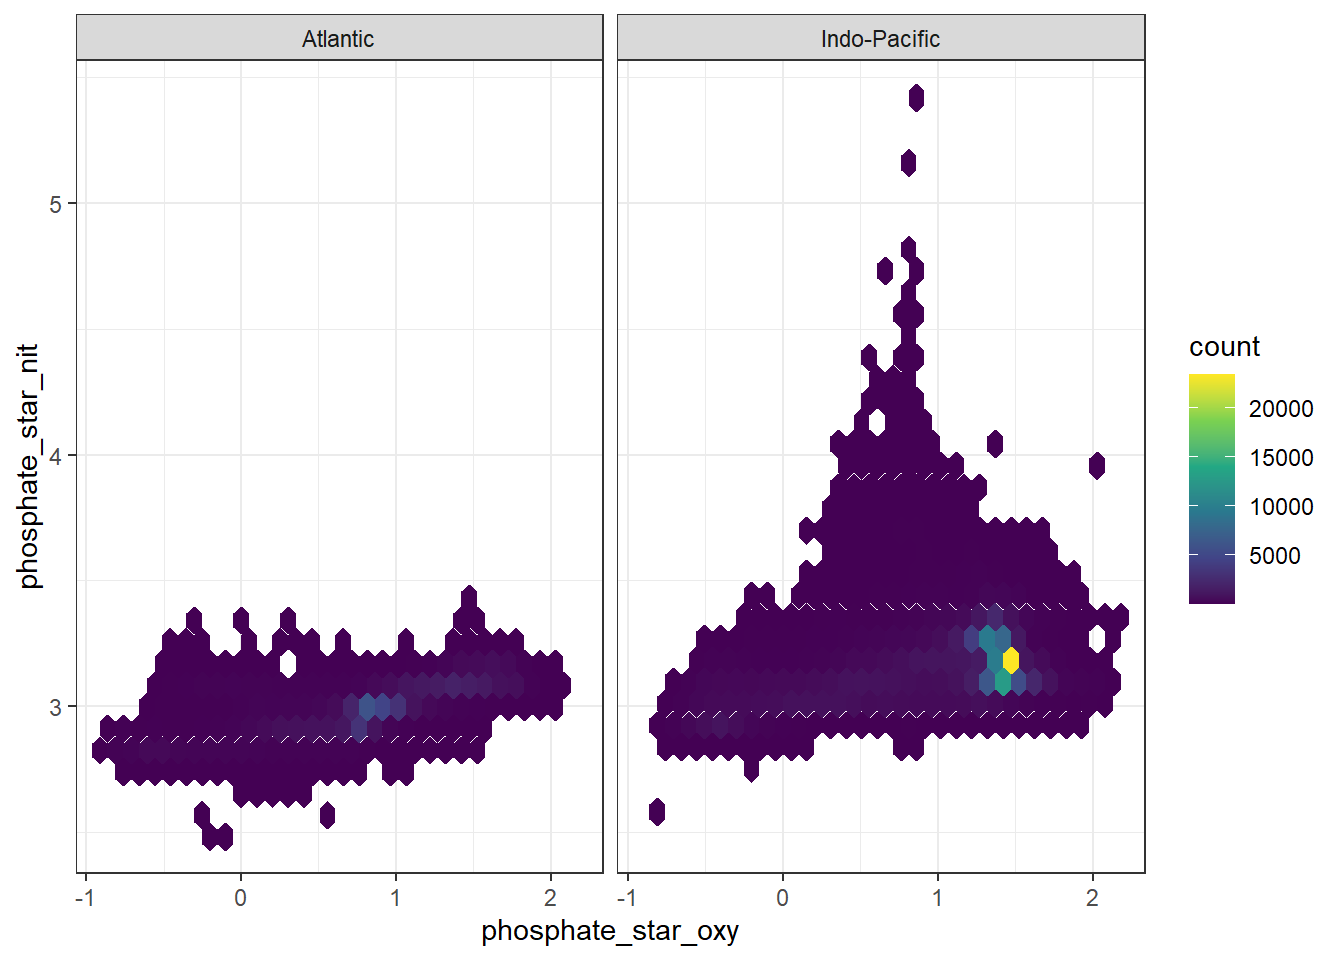
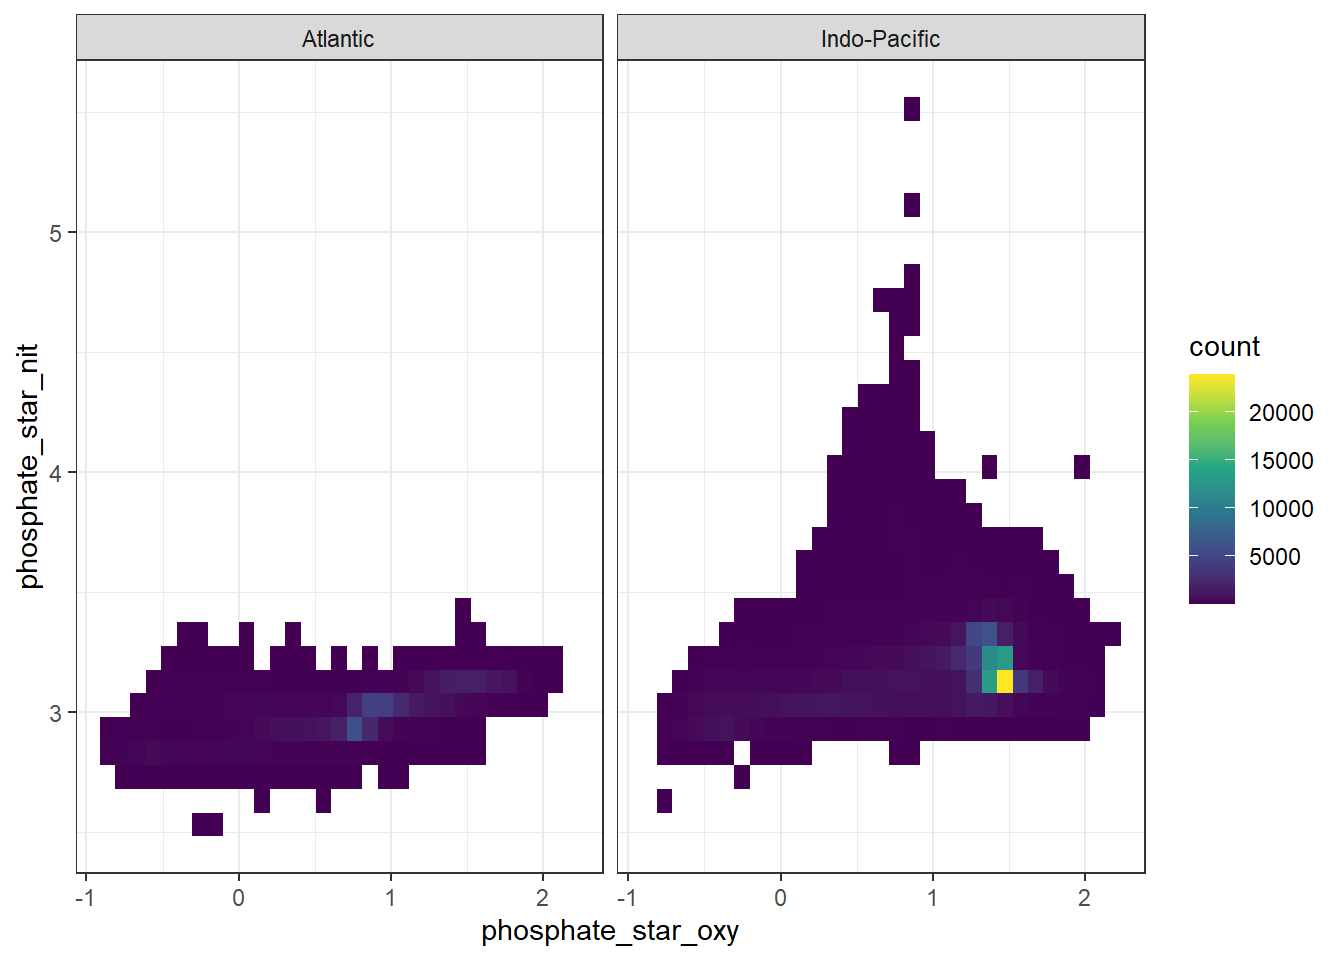
Build site.

diff --git a/docs/eMLR.html b/docs/eMLR.html
@@ -574,16 +574,16 @@ This reproducible <a href="http://rmarkdown.rstudio.com">R Markdown</a> analysis
 <div class="panel panel-default">
 <div class="panel-heading">
 <p class="panel-title">
-<a data-toggle="collapse" data-parent="#workflowr-checks" href="#strongRepositoryversionstrongahrefhttpsgithubcomjensdanielmuellerCanteMLRtreef6a317908f183ce4180502dc2b939900afca686btargetblankf6a3179a"> <span class="glyphicon glyphicon-ok text-success" aria-hidden="true"></span> <strong>Repository version:</strong> <a href="https://github.com/jens-daniel-mueller/Cant_eMLR/tree/f6a317908f183ce4180502dc2b939900afca686b" target="_blank">f6a3179</a> </a>
+<a data-toggle="collapse" data-parent="#workflowr-checks" href="#strongRepositoryversionstrongahrefhttpsgithubcomjensdanielmuellerCanteMLRtreea61404414a65c62070d054f3b5ea69c806fc8390targetblanka614044a"> <span class="glyphicon glyphicon-ok text-success" aria-hidden="true"></span> <strong>Repository version:</strong> <a href="https://github.com/jens-daniel-mueller/Cant_eMLR/tree/a61404414a65c62070d054f3b5ea69c806fc8390" target="_blank">a614044</a> </a>
 </p>
 </div>
[2 lines of base64/hex data omitted]
 <div class="panel-body">
 <p>
 Great! You are using Git for version control. Tracking code development and connecting the code version to the results is critical for reproducibility.
 </p>
 <p>
-The results in this page were generated with repository version <a href="https://github.com/jens-daniel-mueller/Cant_eMLR/tree/f6a317908f183ce4180502dc2b939900afca686b" target="_blank">f6a3179</a>. See the <em>Past versions</em> tab to see a history of the changes made to the R Markdown and HTML files.
+The results in this page were generated with repository version <a href="https://github.com/jens-daniel-mueller/Cant_eMLR/tree/a61404414a65c62070d054f3b5ea69c806fc8390" target="_blank">a614044</a>. See the <em>Past versions</em> tab to see a history of the changes made to the R Markdown and HTML files.
 </p>
 <p>
 Note that you need to be careful to ensure that all relevant files for the analysis have been committed to Git prior to generating the results (you can use <code>wflow_publish</code> or <code>wflow_git_commit</code>). workflowr only checks the R Markdown file, but you know if there are other scripts or data files that it depends on. Below is the status of the Git repository when the results were generated:
@@ -642,6 +642,40 @@ Message
 </tr>
 </thead>
 <tbody>
+<tr>
+<td>
+Rmd
+</td>
+<td>
+<a href="https://github.com/jens-daniel-mueller/Cant_eMLR/blob/a61404414a65c62070d054f3b5ea69c806fc8390/analysis/eMLR.Rmd" target="_blank">a614044</a>
+</td>
+<td>
+jens-daniel-mueller
+</td>
+<td>
+2020-08-14
+</td>
+<td>
+checked gamma calculation and sabine cant
+</td>
+</tr>
+<tr>
+<td>
+html
+</td>
+<td>
+<a href="https://rawcdn.githack.com/jens-daniel-mueller/Cant_eMLR/2c0a2c26a7b4f1dd8eaad1cbdc0df6f4692ac6e2/docs/eMLR.html" target="_blank">2c0a2c2</a>
+</td>
+<td>
+jens-daniel-mueller
+</td>
+<td>
+2020-08-14
+</td>
+<td>
+Build site.
+</td>
+</tr>
 <tr>
 <td>
 Rmd
@@ -2515,7 +2549,7 @@ rm(rCP, rNP)</code></pre>
   mutate(phosphate_star_nit = phosphate - nitrate/16  + 2.9)</code></pre>
 <pre class="r"><code>GLODAP %&gt;% 
   ggplot(aes(phosphate_star_oxy, phosphate_star_nit)) +
-  geom_hex() +
+  geom_bin2d() +
   scale_fill_viridis_c() +
   facet_wrap(~basin)</code></pre>
 <p><img src="figure/eMLR.Rmd/phosphate_star_approach_comparison-1.png" width="672" style="display: block; margin: auto;" /></p>
@@ -23989,20 +24023,20 @@ loaded via a namespace (and not attached):
  [9] nortest_1.0-4      DBI_1.1.0          colorspace_1.4-1   withr_2.2.0       
 [13] tidyselect_1.1.0   gridExtra_2.3      curl_4.3           compiler_4.0.2    
 [17] git2r_0.27.1       cli_2.0.2          rvest_0.3.6        xml2_1.3.2        
-[21] labeling_0.3       scales_1.1.1       hexbin_1.28.1      goftest_1.2-2     
-[25] digest_0.6.25      foreign_0.8-80     rmarkdown_2.3      rio_0.5.16        
-[29] pkgconfig_2.0.3    htmltools_0.5.0    highr_0.8          dbplyr_1.4.4      
-[33] rlang_0.4.7        readxl_1.3.1       rstudioapi_0.11    generics_0.0.2    
-[37] farver_2.0.3       jsonlite_1.7.0     zip_2.0.4          car_3.0-8         
-[41] magrittr_1.5       Rcpp_1.0.5         munsell_0.5.0      fansi_0.4.1       
-[45] abind_1.4-5        lifecycle_0.2.0    stringi_1.4.6      whisker_0.4       
-[49] yaml_2.2.1         carData_3.0-4      plyr_1.8.6         grid_4.0.2        
-[53] blob_1.2.1         promises_1.1.1     crayon_1.3.4       lattice_0.20-41   
-[57] haven_2.3.1        hms_0.5.3          pillar_1.4.6       reprex_0.3.0      
-[61] glue_1.4.1         evaluate_0.14      data.table_1.13.0  modelr_0.1.8      
-[65] vctrs_0.3.2        httpuv_1.5.4       cellranger_1.1.0   gtable_0.3.0      
-[69] reshape_0.8.8      assertthat_0.2.1   xfun_0.16          openxlsx_4.1.5    
-[73] later_1.1.0.1      viridisLite_0.3.0  ellipsis_0.3.1     here_0.1          </code></pre>
+[21] labeling_0.3       scales_1.1.1       goftest_1.2-2      digest_0.6.25     
+[25] foreign_0.8-80     rmarkdown_2.3      rio_0.5.16         pkgconfig_2.0.3   
+[29] htmltools_0.5.0    dbplyr_1.4.4       highr_0.8          rlang_0.4.7       
+[33] readxl_1.3.1       rstudioapi_0.11    generics_0.0.2     farver_2.0.3      
+[37] jsonlite_1.7.0     zip_2.0.4          car_3.0-8          magrittr_1.5      
+[41] Rcpp_1.0.5         munsell_0.5.0      fansi_0.4.1        abind_1.4-5       
+[45] lifecycle_0.2.0    stringi_1.4.6      whisker_0.4        yaml_2.2.1        
+[49] carData_3.0-4      plyr_1.8.6         grid_4.0.2         blob_1.2.1        
+[53] promises_1.1.1     crayon_1.3.4       haven_2.3.1        hms_0.5.3         
+[57] pillar_1.4.6       reprex_0.3.0       glue_1.4.1         evaluate_0.14     
+[61] data.table_1.13.0  modelr_0.1.8       vctrs_0.3.2        httpuv_1.5.4      
+[65] cellranger_1.1.0   gtable_0.3.0       reshape_0.8.8      assertthat_0.2.1  
+[69] xfun_0.16          openxlsx_4.1.5     later_1.1.0.1      viridisLite_0.3.0 
+[73] ellipsis_0.3.1     here_0.1          </code></pre>
 </div>
 </div>
 
